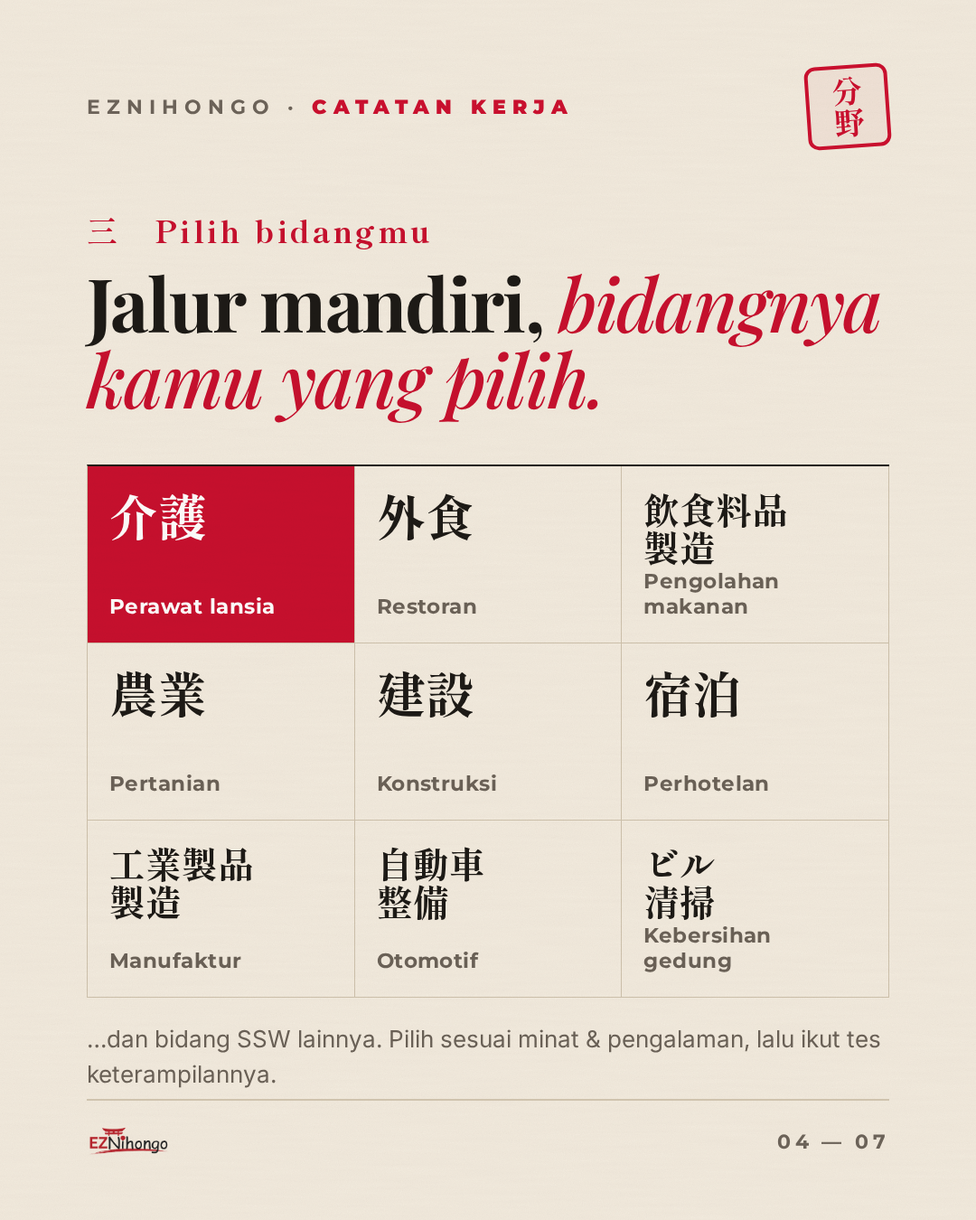
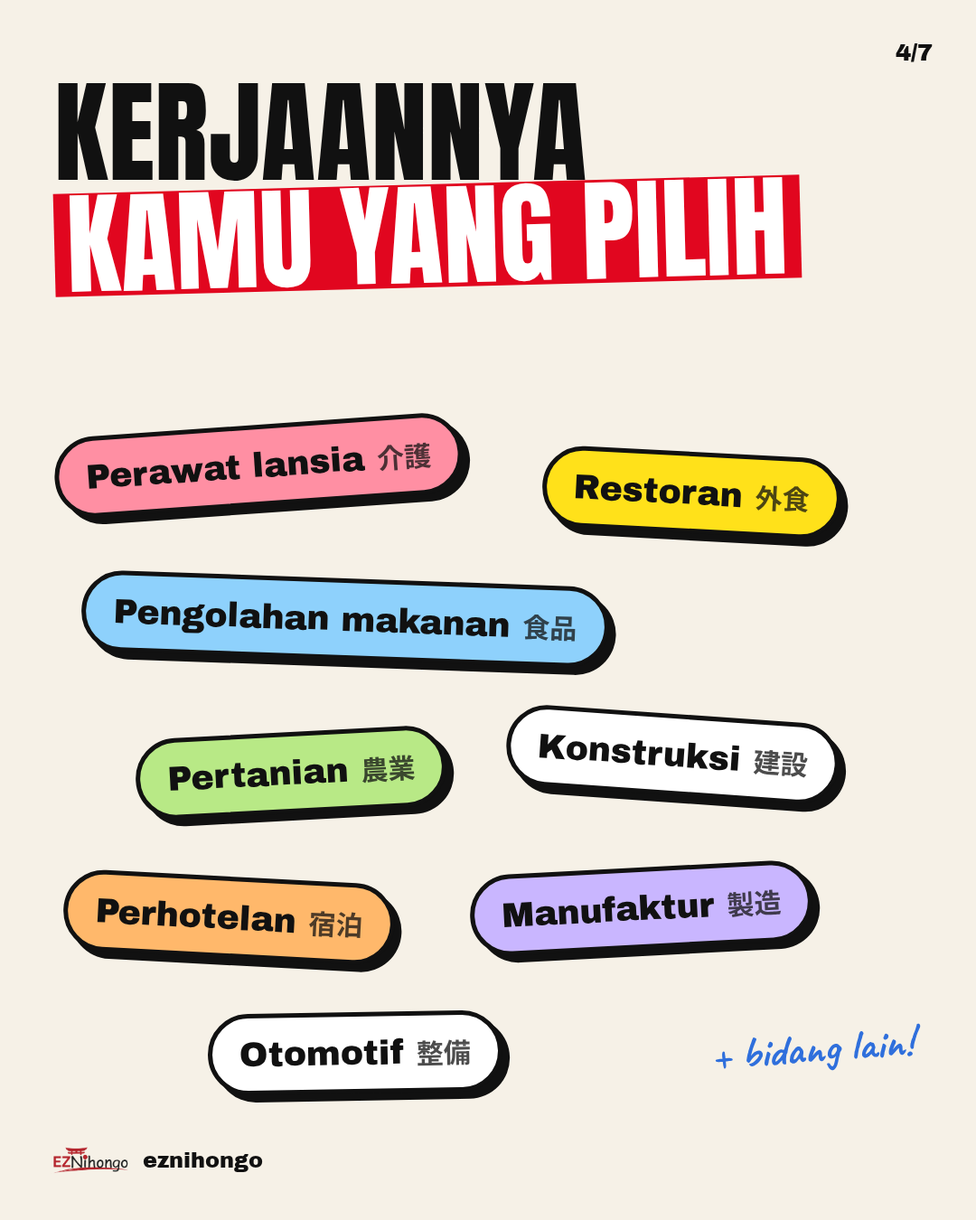
Carousel jalur mandiri: gaya scrapbook bold (boarding pass, catatan, chat WA)
Claude-Session: https://claude.ai/code/session_01C3EzK71sv3fG4UwHrQoVjw

diff --git a/marketing/carousel-mandiri/carousel.html b/marketing/carousel-mandiri/carousel.html
@@ -1,214 +1,162 @@
 <!doctype html>
 <html lang="id"><head><meta charset="utf-8">
-<link href="https://fonts.googleapis.com/css2?family=Inter:wght@400;600;700;800&family=Montserrat:wght@600;700;800;900&family=Playfair+Display:ital,wght@0,600;0,700;1,400;1,500;1,600&family=Shippori+Mincho:wght@700;800&family=Noto+Sans+JP:wght@700&display=block" rel="stylesheet">
-<!-- Carousel "Kerja ke Jepang jalur mandiri" — 7 slide 1080×1350. Gaya editorial washi: kertas, garis tinta,
-     merah vermilion, serif. Tanpa foto. Render: node render.mjs -->
+<link href="https://fonts.googleapis.com/css2?family=Inter:wght@400;600;700;800&family=Anton&family=Permanent+Marker&family=Caveat:wght@600;700&family=Archivo+Black&family=Noto+Sans+JP:wght@700&display=block" rel="stylesheet">
+<!-- Carousel "Kerja ke Jepang jalur mandiri" — 7 slide 1080×1350. Gaya "scrapbook" yang berhenti-scroll:
+     tipografi kondensasi besar, stabilo, coretan tangan, boarding pass, chat WA, catatan buku. Render: node render.mjs -->
 <style>
-:root{--red:#C8102E;--ink:#1d1a16;--mute:#6b6258;--paper:#f3ece0;--rule:#cfc3ae;--gold:#b08a4a;--indigo:#26334f}
+:root{--y:#FFE11A;--r:#E1061F;--k:#111;--ink:#1b1b1b;--paper:#fffdf6;--blue:#2f6fdc}
 *{box-sizing:border-box;margin:0;padding:0}
-body{background:#222;font-family:Inter,sans-serif;color:var(--ink)}
-.s{position:relative;width:1080px;height:1350px;overflow:hidden;margin:0 0 20px;background:var(--paper);padding:0 96px}
-.grain{position:absolute;inset:0;pointer-events:none;opacity:.55;mix-blend-mode:multiply}
-.top{position:absolute;left:96px;right:96px;top:72px;display:flex;justify-content:space-between;align-items:center}
-.lbl{font-family:Montserrat;font-weight:700;font-size:22px;letter-spacing:.32em;color:var(--mute)}
-.lbl b{color:var(--red)}
-.hanko{width:92px;height:92px;border:4px solid var(--red);border-radius:12px;color:var(--red);display:grid;place-items:center;font-family:'Shippori Mincho';font-weight:800;font-size:34px;line-height:1;writing-mode:vertical-rl;transform:rotate(-4deg);background:rgba(200,16,46,.04)}
-.foot{position:absolute;left:96px;right:96px;bottom:64px;padding-top:22px;border-top:2px solid var(--rule);display:flex;justify-content:space-between;align-items:center;font-family:Montserrat;font-weight:700;font-size:22px;letter-spacing:.2em;color:var(--mute)}
-.foot img{height:46px}
-.vert{position:absolute;right:58px;top:230px;writing-mode:vertical-rl;font-family:'Shippori Mincho';font-weight:700;font-size:30px;letter-spacing:.5em;color:rgba(29,26,22,.32)}
-.kicker{font-family:'Shippori Mincho';font-weight:800;font-size:34px;color:var(--red);letter-spacing:.1em}
-h1,h2{font-family:'Playfair Display';font-weight:700;letter-spacing:-.02em;line-height:1.02}
-h1{font-size:112px}
-h2{font-size:82px;margin-top:14px}
-em{font-style:italic;font-weight:500;color:var(--red)}
-.body{font-size:34px;line-height:1.5;color:#3d3730}
-.body b{color:var(--ink)}
-.small{font-size:26px;line-height:1.5;color:var(--mute)}
-/* list bernomor ala editorial */
-.ol{margin-top:56px;border-top:2px solid var(--ink)}
-.li{display:flex;gap:34px;padding:30px 0;border-bottom:1px solid var(--rule);align-items:flex-start}
-.li .n{flex:none;width:96px;font-family:'Playfair Display';font-style:italic;font-weight:500;font-size:70px;line-height:.9;color:var(--red)}
-.li h3{font-family:Montserrat;font-weight:800;font-size:38px;letter-spacing:-.01em;line-height:1.15}
-.li p{font-size:27px;line-height:1.45;color:var(--mute);margin-top:8px}
-.li.hl{background:linear-gradient(90deg,rgba(200,16,46,.07),rgba(200,16,46,0));margin:0 -24px;padding:30px 24px}
-.pill{display:inline-flex;align-items:baseline;gap:10px;border:2px solid var(--ink);border-radius:999px;padding:12px 26px;font-family:Montserrat;font-weight:800;font-size:34px;background:rgba(255,255,255,.5)}
-.pill i{font-style:normal;color:var(--red)}
-/* grid bidang */
-.grid{display:grid;grid-template-columns:repeat(3,1fr);margin-top:54px;border-top:2px solid var(--ink);border-left:1px solid var(--rule)}
-.cell{border-right:1px solid var(--rule);border-bottom:1px solid var(--rule);height:196px;padding:26px 24px;display:flex;flex-direction:column;justify-content:space-between}
-.cell .k{font-family:'Shippori Mincho';font-weight:800;font-size:54px;line-height:1.05;color:var(--ink)}
-.cell .k.sm{font-size:40px}
-.cell .t{font-family:Montserrat;font-weight:700;font-size:23px;letter-spacing:.02em;color:var(--mute)}
-.cell.on{background:var(--red)}.cell.on .k,.cell.on .t{color:#fff}
-/* perbandingan */
-.cmp{display:grid;grid-template-columns:1fr 1px 1fr;gap:44px;margin-top:60px}
-.cmp .bar{background:var(--rule)}
-.cmp h3{font-family:'Playfair Display';font-weight:700;font-size:54px;margin:14px 0 22px}
-.cmp .tag{font-family:Montserrat;font-weight:700;font-size:20px;letter-spacing:.3em;color:var(--mute)}
-.cmp ul{list-style:none}
-.cmp li{font-size:30px;line-height:1.4;padding:14px 0;border-top:1px solid var(--rule)}
-.cmp li::before{content:'— ';color:var(--mute)}
-.cmp .win li::before{content:'✓ ';color:var(--red);font-weight:800}
-/* timeline */
-.tl{position:relative;margin-top:56px;padding-left:90px}
-.tl::before{content:'';position:absolute;left:28px;top:20px;bottom:40px;border-left:3px dashed var(--rule)}
-.st{position:relative;padding-bottom:42px}
-.st .dot{position:absolute;left:-90px;top:0;width:58px;height:58px;border-radius:50%;background:var(--paper);border:3px solid var(--red);display:grid;place-items:center;font-family:'Shippori Mincho';font-weight:800;font-size:28px;color:var(--red)}
-.st h3{font-family:Montserrat;font-weight:800;font-size:40px;line-height:1.15}
-.st p{font-size:28px;line-height:1.45;color:var(--mute);margin-top:8px}
-.st p b{color:var(--ink)}
-.warn{margin-top:6px;border:2px solid var(--ink);padding:22px 28px;font-size:26px;line-height:1.45;background:rgba(255,255,255,.45)}
-.warn b{font-family:Montserrat;font-weight:800;color:var(--red);letter-spacing:.12em;font-size:22px;display:block;margin-bottom:6px}
-.cta{display:inline-flex;align-items:center;gap:18px;background:var(--red);color:#fff;font-family:Montserrat;font-weight:800;font-size:44px;padding:28px 54px;border-radius:999px}
+body{background:#222;font-family:Inter,sans-serif;color:var(--k)}
+.s{position:relative;width:1080px;height:1350px;overflow:hidden;margin:0 0 20px}
+.A{font-family:Anton;text-transform:uppercase;line-height:.92;letter-spacing:.005em}
+.M{font-family:'Permanent Marker'}
+.C{font-family:Caveat;font-weight:700}
+.hl{background:linear-gradient(transparent 12%,var(--y) 12%,var(--y) 88%,transparent 88%);padding:0 10px;margin:0 -4px;-webkit-box-decoration-break:clone}
+.hlr{background:var(--r);color:#fff;padding:0 14px;display:inline-block;transform:rotate(-1.5deg)}
+.page{position:absolute;right:48px;top:44px;font-family:'Archivo Black';font-size:26px}
+.handle{position:absolute;left:56px;bottom:44px;display:flex;align-items:center;gap:14px;font-family:'Archivo Black';font-size:24px}
+.handle img{height:44px}
+.swipe{position:absolute;right:56px;bottom:40px;font-family:'Permanent Marker';font-size:40px;color:var(--r)}
+.tape{position:absolute;width:190px;height:54px;background:rgba(255,240,170,.75);box-shadow:0 2px 6px rgba(0,0,0,.12)}
+.sticker{position:absolute;font-family:'Permanent Marker';font-size:42px;padding:14px 26px;border-radius:14px;box-shadow:0 10px 0 rgba(0,0,0,.18)}
+.stamp{position:absolute;border:8px solid var(--r);color:var(--r);font-family:Anton;font-size:96px;padding:6px 28px;border-radius:16px;opacity:.92;mix-blend-mode:multiply}
+svg.d{position:absolute;overflow:visible}
+/* catatan bergaris */
+.lined{background:repeating-linear-gradient(var(--paper) 0 76px,#c9dcf5 76px 78px);background-position:0 30px}
+.margin{position:absolute;left:120px;top:0;bottom:0;border-left:3px solid #f2a3ad}
+.chk{display:flex;gap:34px;align-items:flex-start;margin-bottom:58px}
+.box{flex:none;width:66px;height:66px;border:5px solid var(--k);border-radius:10px;position:relative;margin-top:4px}
+.box svg{position:absolute;left:-6px;top:-22px;width:92px;height:92px}
+.chk b{font-family:'Archivo Black';font-size:56px;line-height:1.08;display:block}
+.chk span{font-family:Caveat;font-weight:700;font-size:46px;color:var(--blue);display:block;margin-top:4px;line-height:1.1}
+/* boarding pass */
+.bp{position:absolute;background:#fff;border-radius:28px;box-shadow:0 30px 60px -20px rgba(0,0,0,.45);display:flex;overflow:hidden}
+.bp .main{padding:34px 40px;flex:1}
+.bp .stub{width:250px;border-left:4px dashed #d6d6d6;padding:34px 30px;background:#fafafa}
+.bp .k{font-family:'Archivo Black';font-size:20px;letter-spacing:.14em;color:#888}
+.bp .v{font-family:Anton;font-size:44px;line-height:1.05}
+.bp .city{font-family:Anton;font-size:120px;line-height:.9}
+/* chat WA */
+.wa{background:#efe7dd}
+.wa .bar{height:150px;background:#075e54;color:#fff;display:flex;align-items:center;gap:26px;padding:40px 44px 0}
+.wa .av{width:84px;height:84px;border-radius:50%;background:var(--y);display:grid;place-items:center;font-family:Anton;font-size:40px;color:var(--k)}
+.bub{max-width:760px;padding:22px 30px 34px;border-radius:26px;font-size:38px;line-height:1.35;position:relative;margin:0 44px 26px;box-shadow:0 2px 2px rgba(0,0,0,.08)}
+.bub.in{background:#fff;border-top-left-radius:6px}
+.bub.out{background:#dcf8c6;margin-left:auto;border-top-right-radius:6px}
+.bub small{position:absolute;right:20px;bottom:8px;font-size:22px;color:#7a8a80}
+.chip{position:absolute;font-family:'Archivo Black';font-size:38px;padding:18px 30px;border-radius:999px;border:5px solid var(--k);box-shadow:8px 8px 0 var(--k);display:flex;gap:14px;align-items:center}
+.chip i{font-style:normal;font-family:'Noto Sans JP';font-weight:700;font-size:30px;opacity:.75}
+.step{position:absolute;left:70px;right:70px;background:#fff;border:5px solid var(--k);border-radius:26px;box-shadow:12px 12px 0 var(--k);padding:30px 36px 30px 170px}
+.step .no{position:absolute;left:30px;top:50%;margin-top:-58px;width:116px;height:116px;border-radius:50%;background:var(--y);border:5px solid var(--k);display:grid;place-items:center;font-family:Anton;font-size:64px}
+.step b{font-family:'Archivo Black';font-size:44px;display:block;line-height:1.1}
+.step span{font-size:31px;line-height:1.35;display:block;margin-top:8px;color:#333}
 </style></head><body>
 
-<svg width="0" height="0" style="position:absolute">
-  <defs>
-    <filter id="paper"><feTurbulence type="fractalNoise" baseFrequency=".9" numOctaves="3" seed="4"/><feColorMatrix values="0 0 0 0 .45  0 0 0 0 .38  0 0 0 0 .28  0 0 0 .16 0"/></filter>
-    <filter id="fiber"><feTurbulence type="fractalNoise" baseFrequency=".012 .22" numOctaves="2" seed="9"/><feColorMatrix values="0 0 0 0 .5  0 0 0 0 .42  0 0 0 0 .3  0 0 0 .1 0"/></filter>
-    <pattern id="seigaiha" width="120" height="60" patternUnits="userSpaceOnUse">
-      <g fill="none" stroke="rgba(38,51,79,.16)" stroke-width="2.2">
-        <g id="sg"><circle cx="60" cy="60" r="56"/><circle cx="60" cy="60" r="44"/><circle cx="60" cy="60" r="32"/><circle cx="60" cy="60" r="20"/><circle cx="60" cy="60" r="8"/></g>
-        <use href="#sg" x="-60" y="-30"/><use href="#sg" x="60" y="-30"/><use href="#sg" x="-60" y="30"/><use href="#sg" x="60" y="30"/>
-      </g>
-    </pattern>
-    <symbol id="fuji" viewBox="0 0 900 300"><g fill="none" stroke="currentColor" stroke-width="5" stroke-linecap="round" stroke-linejoin="round">
-      <path d="M0 290 C120 270 230 200 340 66 L395 60 L420 76 L450 58 L480 74 L505 60 L560 66 C670 200 780 270 900 290"/>
-    </g></symbol>
-    <symbol id="torii" viewBox="0 0 300 260"><g fill="currentColor">
-      <path d="M0 20 Q150 -6 300 20 L294 46 Q150 24 6 46Z"/><rect x="26" y="70" width="248" height="20"/>
-      <rect x="54" y="40" width="26" height="220"/><rect x="220" y="40" width="26" height="220"/><rect x="138" y="44" width="24" height="30"/></g></symbol>
-    <symbol id="plane" viewBox="0 0 64 64"><path fill="currentColor" d="M60 30 L36 26 L22 4 h-6 l8 22 H10 L4 18 H0 l4 14 -4 14 h4 l6 -8 h14 l-8 22 h6 l14 -22 24 -4 c3 0 3 -4 0 -4z"/></symbol>
-  </defs>
-</svg>
-
-<!-- 1 COVER -->
-<section class="s" id="s1">
-  <div style="position:absolute;left:50%;top:190px;width:520px;height:520px;margin-left:-260px;border-radius:50%;background:var(--red)"></div>
-  <svg style="position:absolute;left:-40px;top:460px;width:1160px;height:387px;color:var(--ink)"><use href="#fuji"/></svg>
-  <svg style="position:absolute;left:0;right:0;bottom:0;width:1080px;height:120px"><rect width="1080" height="120" fill="url(#seigaiha)"/></svg>
-  <div class="top"><span class="lbl">EZNIHONGO · <b>CATATAN KERJA</b></span><div class="hanko">必読</div></div>
-  <div style="position:absolute;left:96px;right:96px;top:790px">
-    <div class="kicker" style="margin-bottom:14px">Banyak yang belum tau —</div>
-    <h1 style="font-size:100px">Kerja ke Jepang, <em>tanpa</em> lewat agen.</h1>
-    <p class="body" style="margin-top:22px;font-size:32px;padding-right:40px">Jalur <b>mandiri</b> visa SSW (Tokutei Ginou) — biaya jauh lebih kecil, asal syaratnya kamu kejar sendiri.</p>
+<!-- 1 COVER — kuning, judul raksasa, boarding pass -->
+<section class="s" id="s1" style="background:var(--y)">
+  <div class="page">1/7</div>
+  <div class="M" style="position:absolute;left:64px;top:70px;font-size:44px;transform:rotate(-3deg)">banyak yang belum tau…</div>
+  <div class="A" style="position:absolute;left:60px;top:150px;font-size:168px">Kerja ke<br>Jepang<br><span class="hlr">tanpa agen?</span></div>
+  <div class="bp" style="left:70px;top:770px;width:940px;height:400px;transform:rotate(-4deg)">
+    <div class="main">
+      <div class="k">BOARDING PASS · JALUR MANDIRI</div>
+      <div style="display:flex;align-items:center;gap:30px;margin-top:18px"><div class="city">JKT</div>
+        <svg width="120" height="60" viewBox="0 0 64 32"><path d="M2 16h52M44 6l12 10-12 10" stroke="#111" stroke-width="4" fill="none" stroke-linecap="round"/></svg><div class="city">TYO</div></div>
+      <div style="display:flex;gap:46px;margin-top:22px"><div><div class="k">PENUMPANG</div><div class="v">KAMU</div></div><div><div class="k">VISA</div><div class="v">SSW</div></div><div><div class="k">AGEN</div><div class="v" style="color:var(--r)">—</div></div></div>
+    </div>
+    <div class="stub"><div class="k">GATE</div><div class="v" style="font-size:64px">N4</div><div class="k" style="margin-top:20px">SEAT</div><div class="v" style="font-size:64px">01A</div></div>
   </div>
-  <div style="position:absolute;right:96px;bottom:136px;font-family:Montserrat;font-weight:800;font-size:24px;letter-spacing:.3em;color:var(--red)">GESER →</div>
+  <div class="stamp" style="left:500px;top:1020px;transform:rotate(-8deg)">BISA!</div>
+  <div class="handle"><img src="logo-a.png">eznihongo</div>
+  <div class="swipe">geser dulu →</div>
 </section>
 
-<!-- 2 SYARAT -->
-<section class="s" id="s2">
-  <div class="top"><span class="lbl">EZNIHONGO · <b>CATATAN KERJA</b></span><div class="hanko">条件</div></div>
-  <div class="vert">応募条件・特定技能</div>
-  <div style="padding-top:230px;padding-right:60px">
-    <div class="kicker">一　Syarat dasar</div>
-    <h2>Yang perlu kamu <em>siapkan.</em></h2>
-    <div class="ol">
-      <div class="li"><div class="n">01</div><div><h3>Usia 18 tahun ke atas</h3><p>Banyak perusahaan mencari ±18–35, tapi tidak ada batas atas resmi.</p></div></div>
-      <div class="li"><div class="n">02</div><div><h3>Minimal SMA / sederajat</h3><p>Umumnya diminta perusahaan &amp; proses di Indonesia.</p></div></div>
-      <div class="li"><div class="n">03</div><div><h3>Sehat jasmani &amp; rohani</h3><p>Ada pemeriksaan kesehatan sebelum berangkat.</p></div></div>
-      <div class="li hl"><div class="n">04</div><div><h3>Punya <span style="color:var(--red)">2 sertifikat</span></h3><p>Bahasa Jepang + keterampilan bidang kerja →</p></div></div>
+<!-- 2 SYARAT — buku catatan bergaris -->
+<section class="s lined" id="s2">
+  <div class="margin"></div>
+  <div class="page">2/7</div>
+  <div class="tape" style="left:420px;top:-14px;transform:rotate(-3deg)"></div>
+  <div style="position:absolute;left:170px;right:70px;top:110px">
+    <div class="A" style="font-size:136px">Syaratnya<br><span class="hl">cuma ini:</span></div>
+    <div style="margin-top:60px">
+      <div class="chk"><div class="box"><svg viewBox="0 0 92 92"><path d="M14 50 L36 72 L84 12" stroke="#E1061F" stroke-width="10" fill="none" stroke-linecap="round" stroke-linejoin="round"/></svg></div><div><b>Usia 18+</b><span>ga ada batas atas resmi lho (perusahaan biasanya cari ±18–35)</span></div></div>
+      <div class="chk"><div class="box"><svg viewBox="0 0 92 92"><path d="M14 50 L36 72 L84 12" stroke="#E1061F" stroke-width="10" fill="none" stroke-linecap="round" stroke-linejoin="round"/></svg></div><div><b>Lulus SMA / sederajat</b><span>umumnya diminta perusahaan</span></div></div>
+      <div class="chk"><div class="box"><svg viewBox="0 0 92 92"><path d="M14 50 L36 72 L84 12" stroke="#E1061F" stroke-width="10" fill="none" stroke-linecap="round" stroke-linejoin="round"/></svg></div><div><b>Sehat jasmani &amp; rohani</b><span>ada medical check sebelum berangkat</span></div></div>
+      <div class="chk"><div class="box"></div><div><b><span class="hl" style="font-family:'Archivo Black';font-size:56px;color:var(--k);display:inline">2 sertifikat</span></b><span>← ini yang paling penting. geser!</span></div></div>
     </div>
   </div>
-  <div class="foot"><img src="logo-a.png"><span>02 — 07</span></div>
+  <svg class="d" style="left:640px;top:1110px" width="300" height="160"><path d="M10 20 C 90 140, 200 140, 270 60 M240 52 l34 6 -4 34" stroke="#E1061F" stroke-width="8" fill="none" stroke-linecap="round" stroke-linejoin="round"/></svg>
+  <div class="handle"><img src="logo-a.png">eznihongo</div>
 </section>
 
-<!-- 3 SERTIFIKAT -->
-<section class="s" id="s3">
-  <div class="top"><span class="lbl">EZNIHONGO · <b>CATATAN KERJA</b></span><div class="hanko">資格</div></div>
-  <div class="vert">二つの試験</div>
-  <div style="padding-top:230px;padding-right:60px">
-    <div class="kicker">二　Dua sertifikat</div>
-    <h2>Dua tes yang <em>wajib lulus.</em></h2>
-    <div class="ol">
-      <div class="li" style="padding:40px 0"><div class="n">A</div><div style="flex:1"><h3>Tes Bahasa Jepang</h3><p>Cukup salah satu:</p>
-        <div style="display:flex;gap:16px;margin-top:20px"><span class="pill">JFT-Basic <i>A2</i></span><span class="pill">JLPT <i>N4</i></span></div>
-        <p style="margin-top:18px;font-size:24px">Bidang kaigo ditambah tes bahasa khusus kaigo.</p></div></div>
-      <div class="li" style="padding:40px 0"><div class="n">B</div><div><h3>Tes Keterampilan SSW</h3><p>Sesuai bidang yang kamu pilih — restoran, makanan &amp; minuman, pertanian, kaigo, otomotif, dll.</p></div></div>
-    </div>
-    <p class="body" style="margin-top:44px;font-size:30px">Dua-duanya <b>tes resmi</b> dan bisa diikuti di Indonesia.</p>
+<!-- 3 DUA SERTIFIKAT — hitam, dua "kunci" -->
+<section class="s" id="s3" style="background:var(--k);color:#fff">
+  <div class="page" style="color:#fff">3/7</div>
+  <div class="A" style="position:absolute;left:60px;top:90px;font-size:130px">2 kunci<br>buat <span style="color:var(--y)">berangkat</span></div>
+  <div style="position:absolute;left:60px;right:60px;top:470px;background:#fff;color:var(--k);border-radius:30px;padding:54px 48px;transform:rotate(-1.5deg)">
+    <div class="M" style="color:var(--r);font-size:40px">kunci #1</div>
+    <div class="A" style="font-size:92px;margin-top:6px">Tes bahasa Jepang</div>
+    <div style="display:flex;gap:20px;margin-top:24px;font-family:'Archivo Black';font-size:44px"><span class="hl">JFT-Basic A2</span><span style="font-family:Caveat;font-size:46px">atau</span><span class="hl">JLPT N4</span></div>
   </div>
-  <div class="foot"><img src="logo-a.png"><span>03 — 07</span></div>
+  <div style="position:absolute;left:60px;right:60px;top:880px;background:var(--y);color:var(--k);border-radius:30px;padding:54px 48px;transform:rotate(1.2deg)">
+    <div class="M" style="color:var(--r);font-size:40px">kunci #2</div>
+    <div class="A" style="font-size:92px;margin-top:6px">Tes skill SSW</div>
+    <div style="font-size:34px;margin-top:16px;line-height:1.35;font-weight:600">Sesuai bidang kerja yang kamu pilih. Dua-duanya tes resmi &amp; bisa diikuti di Indonesia.</div>
+  </div>
+  <div class="handle" style="color:#fff"><img src="logo-a.png" style="filter:brightness(0) invert(1)">eznihongo</div>
 </section>
 
-<!-- 4 BIDANG -->
-<section class="s" id="s4">
-  <div class="top"><span class="lbl">EZNIHONGO · <b>CATATAN KERJA</b></span><div class="hanko">分野</div></div>
-  <div style="padding-top:230px">
-    <div class="kicker">三　Pilih bidangmu</div>
-    <h2>Jalur mandiri, <em>bidangnya kamu yang pilih.</em></h2>
-    <div class="grid">
-      <div class="cell on"><div class="k">介護</div><div class="t">Perawat lansia</div></div>
-      <div class="cell"><div class="k">外食</div><div class="t">Restoran</div></div>
-      <div class="cell"><div class="k sm">飲食料品<br>製造</div><div class="t">Pengolahan makanan</div></div>
-      <div class="cell"><div class="k">農業</div><div class="t">Pertanian</div></div>
-      <div class="cell"><div class="k">建設</div><div class="t">Konstruksi</div></div>
-      <div class="cell"><div class="k">宿泊</div><div class="t">Perhotelan</div></div>
-      <div class="cell"><div class="k sm">工業製品<br>製造</div><div class="t">Manufaktur</div></div>
-      <div class="cell"><div class="k sm">自動車<br>整備</div><div class="t">Otomotif</div></div>
-      <div class="cell"><div class="k sm">ビル<br>清掃</div><div class="t">Kebersihan gedung</div></div>
-    </div>
-    <p class="small" style="margin-top:26px">…dan bidang SSW lainnya. Pilih sesuai minat &amp; pengalaman, lalu ikut tes keterampilannya.</p>
-  </div>
-  <div class="foot"><img src="logo-a.png"><span>04 — 07</span></div>
+<!-- 4 BIDANG — stiker warna-warni -->
+<section class="s" id="s4" style="background:#f6f1e7">
+  <div class="page">4/7</div>
+  <div class="A" style="position:absolute;left:60px;top:90px;font-size:124px">Kerjaannya<br><span class="hlr">kamu yang pilih</span></div>
+  <div class="chip" style="left:60px;top:470px;background:#FF8FA3;transform:rotate(-4deg)">Perawat lansia <i>介護</i></div>
+  <div class="chip" style="left:600px;top:500px;background:var(--y);transform:rotate(3deg)">Restoran <i>外食</i></div>
+  <div class="chip" style="left:90px;top:640px;background:#8ED1FC;transform:rotate(2deg)">Pengolahan makanan <i>食品</i></div>
+  <div class="chip" style="left:150px;top:810px;background:#B8E986;transform:rotate(-3deg)">Pertanian <i>農業</i></div>
+  <div class="chip" style="left:560px;top:790px;background:#fff;transform:rotate(4deg)">Konstruksi <i>建設</i></div>
+  <div class="chip" style="left:70px;top:970px;background:#FFB86B;transform:rotate(3deg)">Perhotelan <i>宿泊</i></div>
+  <div class="chip" style="left:520px;top:960px;background:#C9B6FF;transform:rotate(-3deg)">Manufaktur <i>製造</i></div>
+  <div class="chip" style="left:230px;top:1120px;background:#fff;transform:rotate(-1deg)">Otomotif <i>整備</i></div>
+  <div class="C" style="position:absolute;right:70px;top:1130px;font-size:48px;color:var(--blue);transform:rotate(-4deg)">+ bidang lain!</div>
+  <div class="handle"><img src="logo-a.png">eznihongo</div>
 </section>
 
-<!-- 5 CARA -->
-<section class="s" id="s5">
-  <div class="top"><span class="lbl">EZNIHONGO · <b>CATATAN KERJA</b></span><div class="hanko">勉強</div></div>
-  <div class="vert">合格への道</div>
-  <div style="padding-top:230px;padding-right:60px">
-    <div class="kicker">四　Cara lulus tesnya</div>
-    <h2>Belajar sendiri, atau <em>dibimbing?</em></h2>
-    <div class="cmp">
-      <div><div class="tag">PILIHAN 1</div><h3>Otodidak</h3><ul><li>Gratis atau murah</li><li>Butuh disiplin tinggi</li><li>Sering bingung mulai dari mana</li></ul></div>
-      <div class="bar"></div>
-      <div class="win"><div class="tag" style="color:var(--red)">PILIHAN 2</div><h3>Dibimbing</h3><ul><li>Ada sensei &amp; jadwal tetap</li><li>Teman seperjuangan</li><li>Lebih cepat siap tes</li></ul></div>
-    </div>
-    <div style="margin-top:64px;padding:34px 0;border-top:2px solid var(--ink);border-bottom:2px solid var(--ink)">
-      <p style="font-family:'Playfair Display';font-size:46px;line-height:1.25">Bagian paling lama? <em>Bahasanya.</em></p>
-      <p class="small" style="margin-top:10px">Tes keterampilan biasanya lebih cepat dikejar.</p>
-    </div>
+<!-- 5 CHAT WA — otodidak vs bimbingan -->
+<section class="s wa" id="s5">
+  <div class="bar"><div class="av">EZ</div><div><div style="font-family:'Archivo Black';font-size:38px">Sensei EzNihongo</div><div style="font-size:26px;opacity:.85">online</div></div></div>
+  <div class="page" style="color:#fff;top:60px">5/7</div>
+  <div style="padding-top:50px">
+    <div class="bub out">Sensei, mending belajar sendiri atau ikut kelas? 🤔<small>19.02 ✓✓</small></div>
+    <div class="bub in">Dua-duanya bisa kok 😄<small>19.03</small></div>
+    <div class="bub in"><b>Otodidak:</b> murah, tapi butuh disiplin tinggi &amp; sering bingung mulai dari mana.<small>19.03</small></div>
+    <div class="bub in"><b>Dibimbing:</b> ada sensei, jadwal tetap, temen seperjuangan → biasanya lebih cepet siap tes.<small>19.04</small></div>
+    <div class="bub out">Yang paling lama apanya sih?<small>19.05 ✓✓</small></div>
+    <div class="bub in" style="font-size:44px"><b>Bahasanya.</b> Skill test biasanya lebih cepet dikejar 💪<small>19.05</small></div>
   </div>
-  <div class="foot"><img src="logo-a.png"><span>05 — 07</span></div>
 </section>
 
-<!-- 6 ALUR -->
-<section class="s" id="s6">
-  <div class="top"><span class="lbl">EZNIHONGO · <b>CATATAN KERJA</b></span><div class="hanko">出発</div></div>
-  <svg style="position:absolute;right:110px;top:250px;width:120px;height:120px;color:var(--red);transform:rotate(-20deg)"><use href="#plane"/></svg>
-  <div style="padding-top:230px;padding-right:60px">
-    <div class="kicker">五　Setelah lulus</div>
-    <h2>Alurnya sampai <em>berangkat.</em></h2>
-    <div class="tl">
-      <div class="st"><div class="dot">一</div><h3>Lamar kerja &amp; wawancara</h3><p>Wawancara dengan perusahaan Jepang <b>tidak dipungut biaya.</b></p></div>
-      <div class="st"><div class="dot">二</div><h3>Dokumen &amp; visa</h3><p>Kontrak kerja, COE, lalu visa SSW. Berangkat <b>resmi &amp; legal.</b></p></div>
-      <div class="st"><div class="dot">三</div><h3>Tiket pesawat</h3><p>Kadang ditanggung perusahaan, kadang beli sendiri — kelas ekonomi <b>±Rp4–5 juta</b> sekali jalan.</p></div>
-    </div>
-    <div class="warn"><b>HATI-HATI</b>Jangan percaya pihak yang minta bayaran besar untuk "menjamin" lolos wawancara.</div>
-  </div>
-  <div class="foot"><img src="logo-a.png"><span>06 — 07</span></div>
+<!-- 6 ALUR — 3 tiket langkah -->
+<section class="s" id="s6" style="background:var(--y)">
+  <div class="page">6/7</div>
+  <div class="A" style="position:absolute;left:60px;top:80px;font-size:120px">Udah lulus?<br>Ini alurnya ✈</div>
+  <div class="step" style="top:380px;transform:rotate(-1deg)"><div class="no">1</div><b>Lamar &amp; wawancara</b><span>Wawancara sama perusahaan Jepang <u>ga dipungut biaya</u>.</span></div>
+  <div class="step" style="top:610px;transform:rotate(1deg)"><div class="no">2</div><b>Dokumen &amp; visa</b><span>Kontrak kerja → COE → visa SSW. Resmi &amp; legal.</span></div>
+  <div class="step" style="top:840px;transform:rotate(-.8deg)"><div class="no">3</div><b>Tiket pesawat</b><span>Kadang ditanggung perusahaan, kadang beli sendiri (ekonomi ±Rp4–5 jt).</span></div>
+  <div class="sticker" style="left:80px;top:1080px;background:var(--r);color:#fff;transform:rotate(-3deg);font-size:36px;max-width:900px;line-height:1.25">⚠ AWAS: yang minta bayaran besar buat "jamin lolos" wawancara = red flag!</div>
+  <div class="handle"><img src="logo-a.png">eznihongo</div>
 </section>
 
 <!-- 7 CTA -->
-<section class="s" id="s7" style="text-align:center">
-  <div class="top"><span class="lbl">EZNIHONGO · <b>CATATAN KERJA</b></span><div class="hanko">始</div></div>
-  <div style="position:absolute;left:50%;top:170px;width:360px;height:360px;margin-left:-180px;border-radius:50%;background:var(--red)"></div>
-  <svg style="position:absolute;left:50%;top:300px;width:330px;height:286px;margin-left:-165px;color:var(--ink)"><use href="#torii"/></svg>
-  <svg style="position:absolute;left:0;right:0;bottom:0;width:1080px;height:90px"><rect width="1080" height="90" fill="url(#seigaiha)"/></svg>
-  <div style="padding-top:640px">
-    <div class="kicker" style="font-size:40px;letter-spacing:.3em">学ぶ・備える・未来へ</div>
-    <h2 style="font-size:84px;margin-top:18px">Kerja ke Jepang?<br><em>Mulai dari bahasanya.</em></h2>
-    <p class="body" style="font-size:30px;margin-top:22px">Bootcamp live bareng sensei 2× seminggu, ada rekamannya,<br>plus latihan harian di HP.</p>
-    <div style="margin-top:36px"><span class="cta">eznihongo.com <span style="font-size:36px">↗</span></span></div>
-    <p class="small" style="margin-top:20px">Tanya dulu? WA admin 0812-9489-4557</p>
+<section class="s" id="s7" style="background:var(--k);color:#fff">
+  <div class="page" style="color:#fff">7/7</div>
+  <div class="M" style="position:absolute;left:64px;top:90px;font-size:48px;color:var(--y);transform:rotate(-3deg)">jadi intinya…</div>
+  <div class="A" style="position:absolute;left:60px;top:170px;font-size:150px">Kerja ke<br>Jepang?<br><span style="color:var(--y)">Mulai dari</span><br><span style="color:var(--y)">bahasanya.</span></div>
+  <div style="position:absolute;left:60px;right:60px;top:860px;background:#fff;color:var(--k);border-radius:28px;padding:36px 44px;transform:rotate(-1deg)">
+    <img src="logo-a.png" style="height:84px">
+    <div style="font-size:33px;line-height:1.4;margin-top:12px;font-weight:600">Bootcamp live bareng sensei 2× seminggu, ada rekamannya, latihan harian di HP.</div>
+    <div style="margin-top:22px;display:inline-block;background:var(--r);color:#fff;font-family:'Archivo Black';font-size:40px;padding:16px 36px;border-radius:999px">eznihongo.com</div>
   </div>
+  <div class="M" style="position:absolute;left:64px;bottom:60px;font-size:40px;color:var(--y)">🔖 simpan &amp; kirim ke temen yang mau ke Jepang!</div>
 </section>
-
-<script>
-// lapisan kertas (grain + serat) di setiap slide
-document.querySelectorAll('.s').forEach(s=>{
-  s.insertAdjacentHTML('afterbegin','<svg class="grain" width="1080" height="1350"><rect width="1080" height="1350" filter="url(#paper)"/><rect width="1080" height="1350" filter="url(#fiber)"/></svg>');
-});
-</script>
 </body></html>
